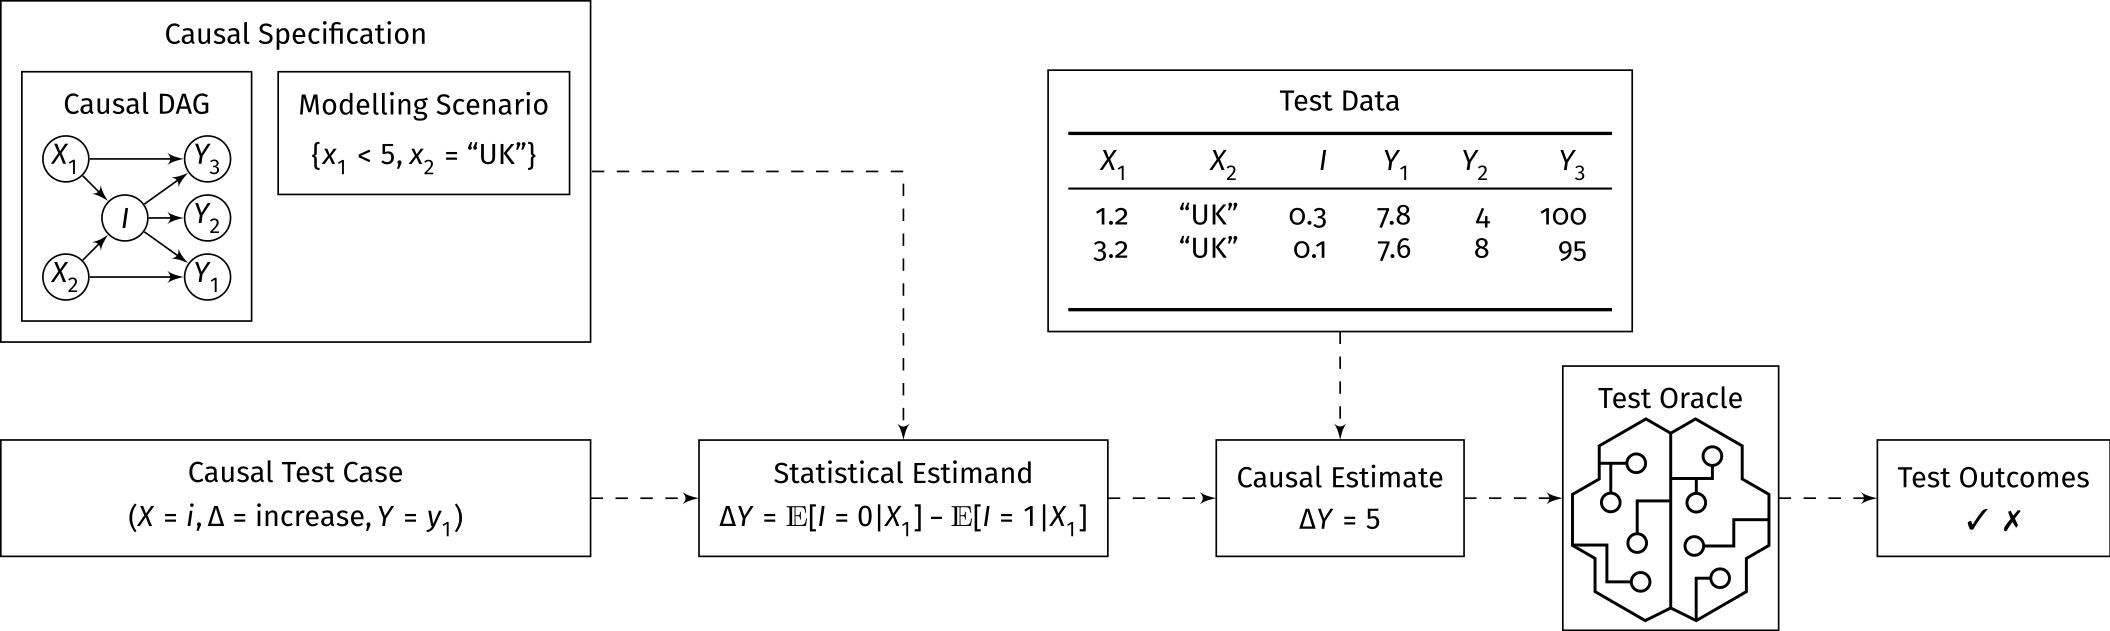
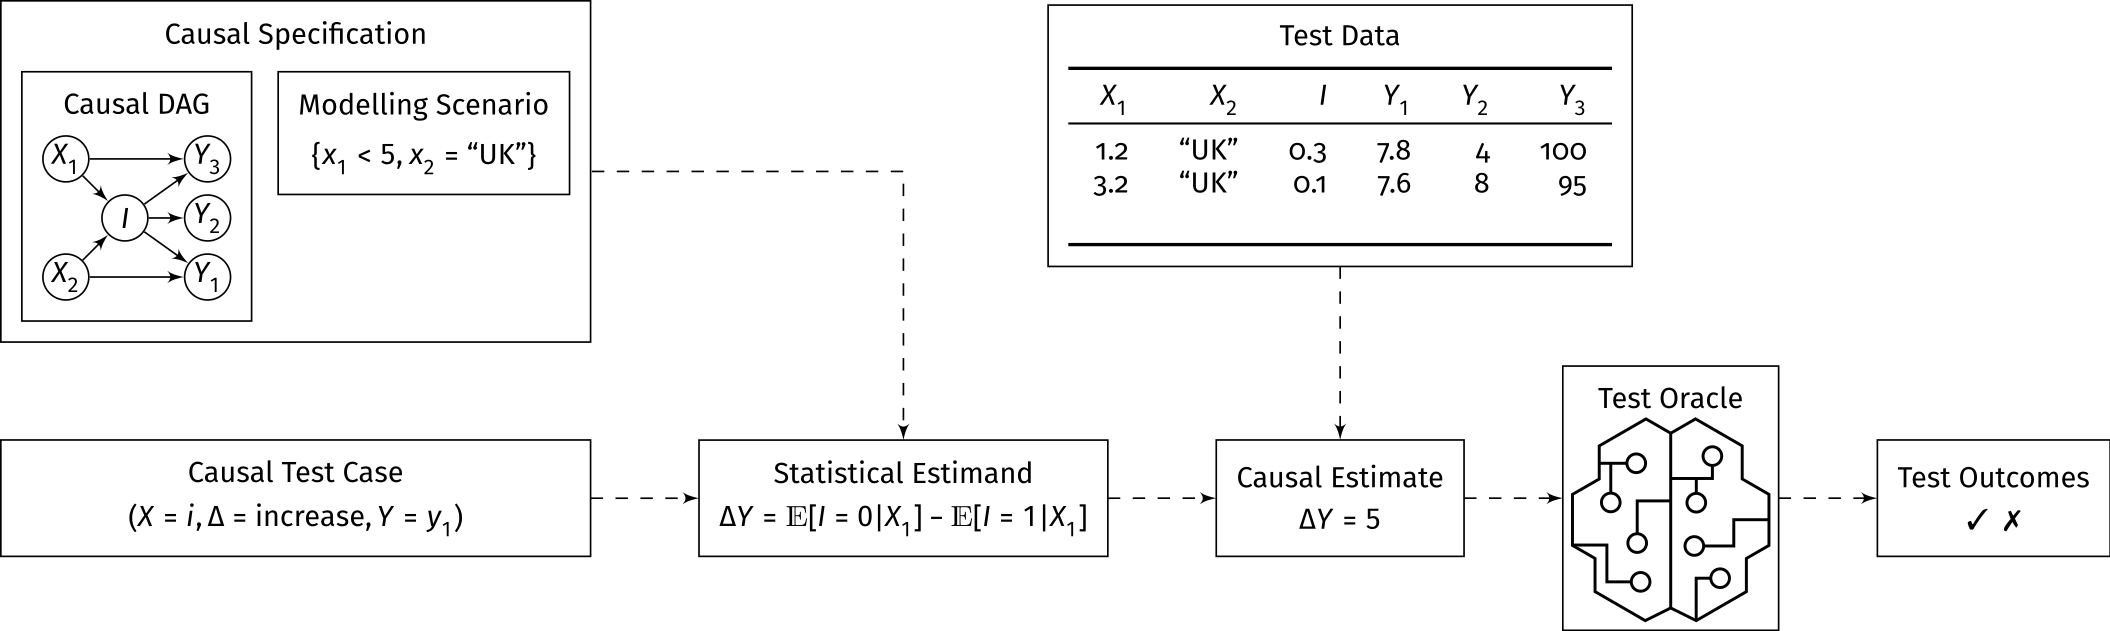
Test data alignment

Changed region(s): [[0.4929, 0.1506, 0.7701, 0.4517], [0.4929, 0.0, 0.7701, 0.1204], [0.4929, 0.4818, 0.7701, 0.542]]

diff --git a/images/schematic.tex b/images/schematic.tex
@@ -84,7 +84,8 @@
   \end{scope}
 
     \begin{scope}[name prefix=data-, local bounding box=test-data, shift={($(estimate.north)+(0, 1)$)},]
-    \node[anchor=south] (table) at (0,0) {
+    \node[draw=none, rectangle] (title) at (estimate |- scenario-title) {Test Data};
+    \node[anchor=north] (table) at (title.south) {
       \begin{tabular}{rrrrrr}
         \toprule
         $X_1$ & $X_2$  & $I$ & $Y_1$ & $Y_2$ & $Y_3$ \\
@@ -95,7 +96,6 @@
         \bottomrule
       \end{tabular}
     };
-    \node[draw=none, rectangle, anchor=south] (title) at (table.north) {Test Data};
     \node[draw, rectangle] [fit=(title) (table)] {};
   \end{scope}
 
